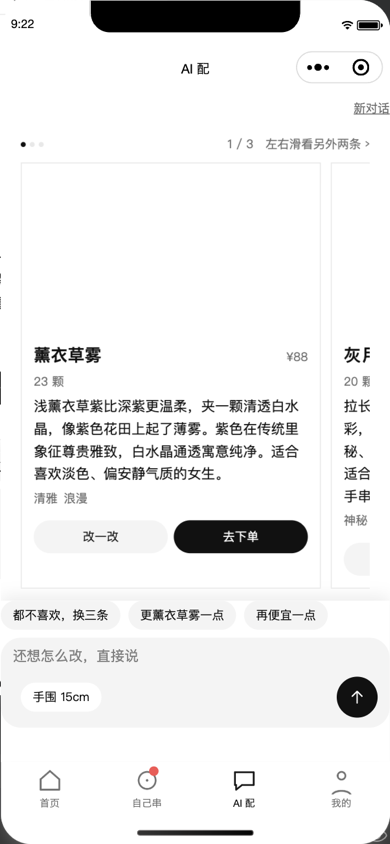
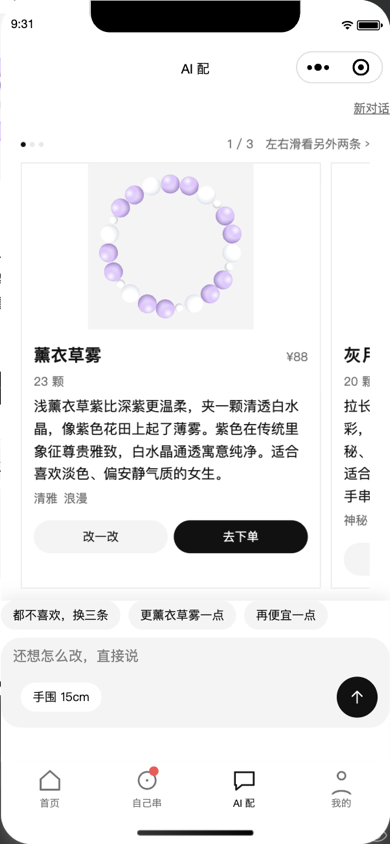
V7a: 修复小程序样式加载和三页冻结快照

diff --git a/miniprogram/tests/snapshot-thumbnails.test.js b/miniprogram/tests/snapshot-thumbnails.test.js
@@ -47,3 +47,44 @@ test('售后详情缩略图直接使用冻结珠序，商品改色后不变', ()
     if (oldDefinition) require.cache[pagePath] = oldDefinition; else delete require.cache[pagePath]
   }
 })
+
+test('订单详情、售后详情和评价都用冻结珠序，三处手串均有照片和颜色', async () => {
+  const orderWxml = fs.readFileSync(path.resolve(__dirname, '../features/order-detail/order-detail.wxml'), 'utf8')
+  assert.match(orderWxml, /c-bracelet beads="{{order\.designSnapshot\.sequence}}" tier="s"/)
+  const saleWxml = fs.readFileSync(path.resolve(__dirname, '../features/after-sale/detail.wxml'), 'utf8')
+  assert.match(saleWxml, /c-bracelet beads="{{product\.beads}}" tier="s"/)
+  const reviewWxml = fs.readFileSync(path.resolve(__dirname, '../features/review/review.wxml'), 'utf8')
+  assert.match(reviewWxml, /c-bracelet beads="{{beads}}" tier="s"/)
+  const pagePath = path.resolve(__dirname, '../features/review/review.js')
+  const authPath = path.resolve(__dirname, '../utils/auth.js')
+  const oldPage = global.Page, oldAuth = require.cache[authPath], oldDefinition = require.cache[pagePath]
+  let definition
+  global.Page = value => { definition = value }
+  require.cache[authPath] = { id: authPath, filename: authPath, loaded: true, exports: { authorized: async () => order } }
+  delete require.cache[pagePath]
+  try {
+    require(pagePath)
+    const page = { ...definition, data: { ...definition.data }, setData(update) { Object.assign(this.data, update) } }
+    page.onLoad({ orderId: order.no })
+    await new Promise(resolve => setImmediate(resolve))
+    const salePath = path.resolve(__dirname, '../features/after-sale/detail.js')
+    const oldSale = require.cache[salePath]
+    let saleDefinition
+    global.Page = value => { saleDefinition = value }
+    delete require.cache[salePath]
+    require(salePath)
+    const salePage = { ...saleDefinition, data: { ...saleDefinition.data }, setData(update) { Object.assign(this.data, update) } }
+    salePage.setOrder(order)
+    if (oldSale) require.cache[salePath] = oldSale; else delete require.cache[salePath]
+    const sequences = [order.designSnapshot.sequence, salePage.data.product.beads, page.data.beads]
+    assert.deepEqual(page.data.beads, order.designSnapshot.sequence)
+    assert.equal(page.data.beads[0].photoSm, '/old-sm.png')
+    assert.deepEqual(page.data.beads[0].colors, original.colors)
+    const { layout } = require('../components/bracelet/index')
+    for (const sequence of sequences) assert.ok(layout(sequence, 144, 's').length > 0)
+  } finally {
+    global.Page = oldPage
+    if (oldAuth) require.cache[authPath] = oldAuth; else delete require.cache[authPath]
+    if (oldDefinition) require.cache[pagePath] = oldDefinition; else delete require.cache[pagePath]
+  }
+})

diff --git a/miniprogram/pages/share/share.js b/miniprogram/pages/share/share.js
@@ -1,7 +1,7 @@
 const { queue: toast } = require('../../utils/toast')
 const api=require('../../utils/api'),store=require('../../utils/design'),auth=require('../../utils/auth')
 const { layout } = require('../../utils/bracelet-layout')
-const braceletStyle = require('../../components/bracelet/style.json')
+const braceletStyle = require('../../components/bracelet/style.js')
 const keyOf=d=>d&&JSON.stringify([d.name,d.wrist,d.beads])
 function wrap(text,maxChars,maxLines){const chars=Array.from(String(text||''));const lines=[];let i=0;while(i<chars.length&&lines.length<maxLines){const line=chars.slice(i,i+maxChars);i+=line.length;while(i<chars.length&&/^[，。！？、；：,.!?;:]$/.test(chars[i]))line.push(chars[i++]);lines.push(line.join(''))}if(i<chars.length&&lines.length)lines[lines.length-1]=lines[lines.length-1].slice(0,-1)+'…';return lines}
 function drawBead(ctx,point,path,x,y,params=braceletStyle.regular){

diff --git a/miniprogram/features/review/review.js b/miniprogram/features/review/review.js
@@ -16,7 +16,7 @@ Page({
     auth.authorized(path, null, 'GET').then(order => {
       const beads = Array.isArray(order.beads) ? order.beads.length : ''
       const wrist = order.wrist || ''
-      this.setData({ name: order.name || '手串', beads: (order.designSnapshot && order.designSnapshot.sequence) || order.items || [], catalog: order.items || [],
+      this.setData({ name: order.name || '手串', beads: (order.designSnapshot && order.designSnapshot.sequence) || [], catalog: order.items || [],
         spec: [beads ? beads + ' 颗' : '', wrist ? '手围 ' + wrist + 'cm' : ''].filter(Boolean).join(' · ') })
     }).catch(error => this.setData({ loadError: api.userMessage(error) }))
     if (typeof getApp === 'function') api.catalog().then(result => this.setData({ catalog: result.beads || [] })).catch(() => {})

diff --git a/miniprogram/tests/bracelet-tiers.test.js b/miniprogram/tests/bracelet-tiers.test.js
@@ -11,7 +11,7 @@ const sample = Array.from({ length: 18 }, (_, i) => ({ id: String(i), mm: i % 3 
 test('三档尺寸和参数来自同一份样式文件', () => {
   const fixture = require('../../server/tests/fixtures/bracelet_style.json')
   assert.deepEqual(style, fixture)
-  assert.match(read('pages/share/share.js'), /components\/bracelet\/style\.json/)
+  assert.match(read('pages/share/share.js'), /components\/bracelet\/style\.js/)
   assert.deepEqual(style.tiers, { s: 144, m: 320, l: 560 })
   assert.equal(style.fillRatio, 0.88)
   assert.equal(style.small.outlineWidth, 0)

diff --git a/miniprogram/components/bracelet/index.js b/miniprogram/components/bracelet/index.js
@@ -1,5 +1,5 @@
 const { layout } = require('../../utils/bracelet-layout')
-const style = require('./style.json')
+const style = require('./style.js')
 function normalize(beads) { return (beads || []).filter(b => b && Number(b.mm) > 0).map(b => ({ ...b, colors: b.colors || b.c || [] })) }
 function photoOf(bead, tier) {
   const photo = (tier === 's' ? bead.photoSm : bead.photoMd) || bead.photo

diff --git a/miniprogram/components/bracelet/style.js b/miniprogram/components/bracelet/style.js
@@ -1,4 +1,5 @@
-{
+// Generated from server/tests/fixtures/bracelet_style.json; tests verify exact equality.
+module.exports = {
   "tiers": { "s": 144, "m": 320, "l": 560 },
   "fillRatio": 0.88,
   "background": "var(--c-surface)",
